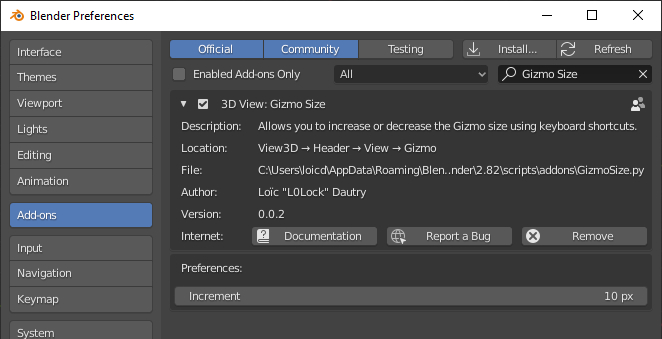
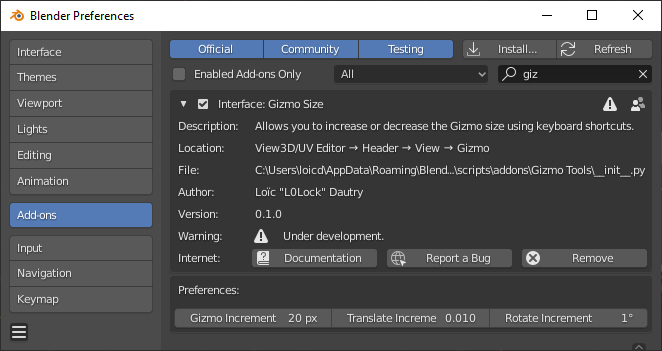
update for v0.1.0

diff --git a/README.md b/README.md
@@ -1,14 +1,24 @@
-# GizmoSize
+# GizmoTools
 
-[![GitHub license](https://img.shields.io/github/license/L0Lock/GizmoSize?style=for-the-badge)](https://github.com/L0Lock/GizmoSize/blob/master/LICENSE) [![ko-fi](https://i.imgur.com/4uQanD7.png)](https://ko-fi.com/l0lock)  [![ArtStation](https://i.imgur.com/S5CgBcO.png)](https://artstn.co/m/276y)
+[![GitHub license](https://img.shields.io/github/license/L0Lock/GizmoTools?style=for-the-badge)](https://github.com/L0Lock/GizmoTools/blob/master/LICENSE) [![ko-fi](https://i.imgur.com/4uQanD7.png)](https://ko-fi.com/l0lock)  [![ArtStation](https://i.imgur.com/S5CgBcO.png)](https://artstn.co/m/276y)
 
-Allows you to increase or decrease the Gizmo size from the viewport using keyboard shortcuts and more.
+Allows you to perform simple gizmo actions using keyboard shortcuts.
 
 ## Features
 
-**Two new operators allow you to increase and decrease the Gizmo size, assigned to <kbd>⇞</kbd> and <kbd>⇟</kbd> keys:**
+**Increase and decrease the Gizmo size, using <kbd>⇞</kbd> and <kbd>⇟</kbd> keys:**
 
 ![Demo Gizmo](Prez\Gizmo Size Demo.gif)
+
+**Rotate and Translate using keys:**
+
+![Demo Gizmo](Prez\Gizmo Transform Demo.gif)
+
+- Translation mode: <kbd>&#9095; Alt</kbd>
+- Rotation mode: <kbd>&#9095; Alt</kbd><kbd>&#8679; Shift</kbd>
+- X: <kbd>&#8592; Left arrow</kbd><kbd>&#8594; Right arrow</kbd>
+- Y: <kbd>&#8593; Up arrow</kbd><kbd>&#8595; Down arrow</kbd>
+- Z: <kbd>&#8670; Page up</kbd><kbd>&#8671; Page down</kbd>
 
 **Edit the shortcuts to your liking from the Preferences window:**
 
@@ -30,9 +40,9 @@ Available in the Viewport and the UV Editor.
 
 - Go in the Preferences window, Add-ons Tab
 
-- Click the "install" button and select GizmoSize.py
+- Click the "install" button and select GizmoTools.zip
 
-- Check *Gizmo Size* in the addon list
+- Check *Gizmo Tools* in the addon list
 
 ## To-do list
 
